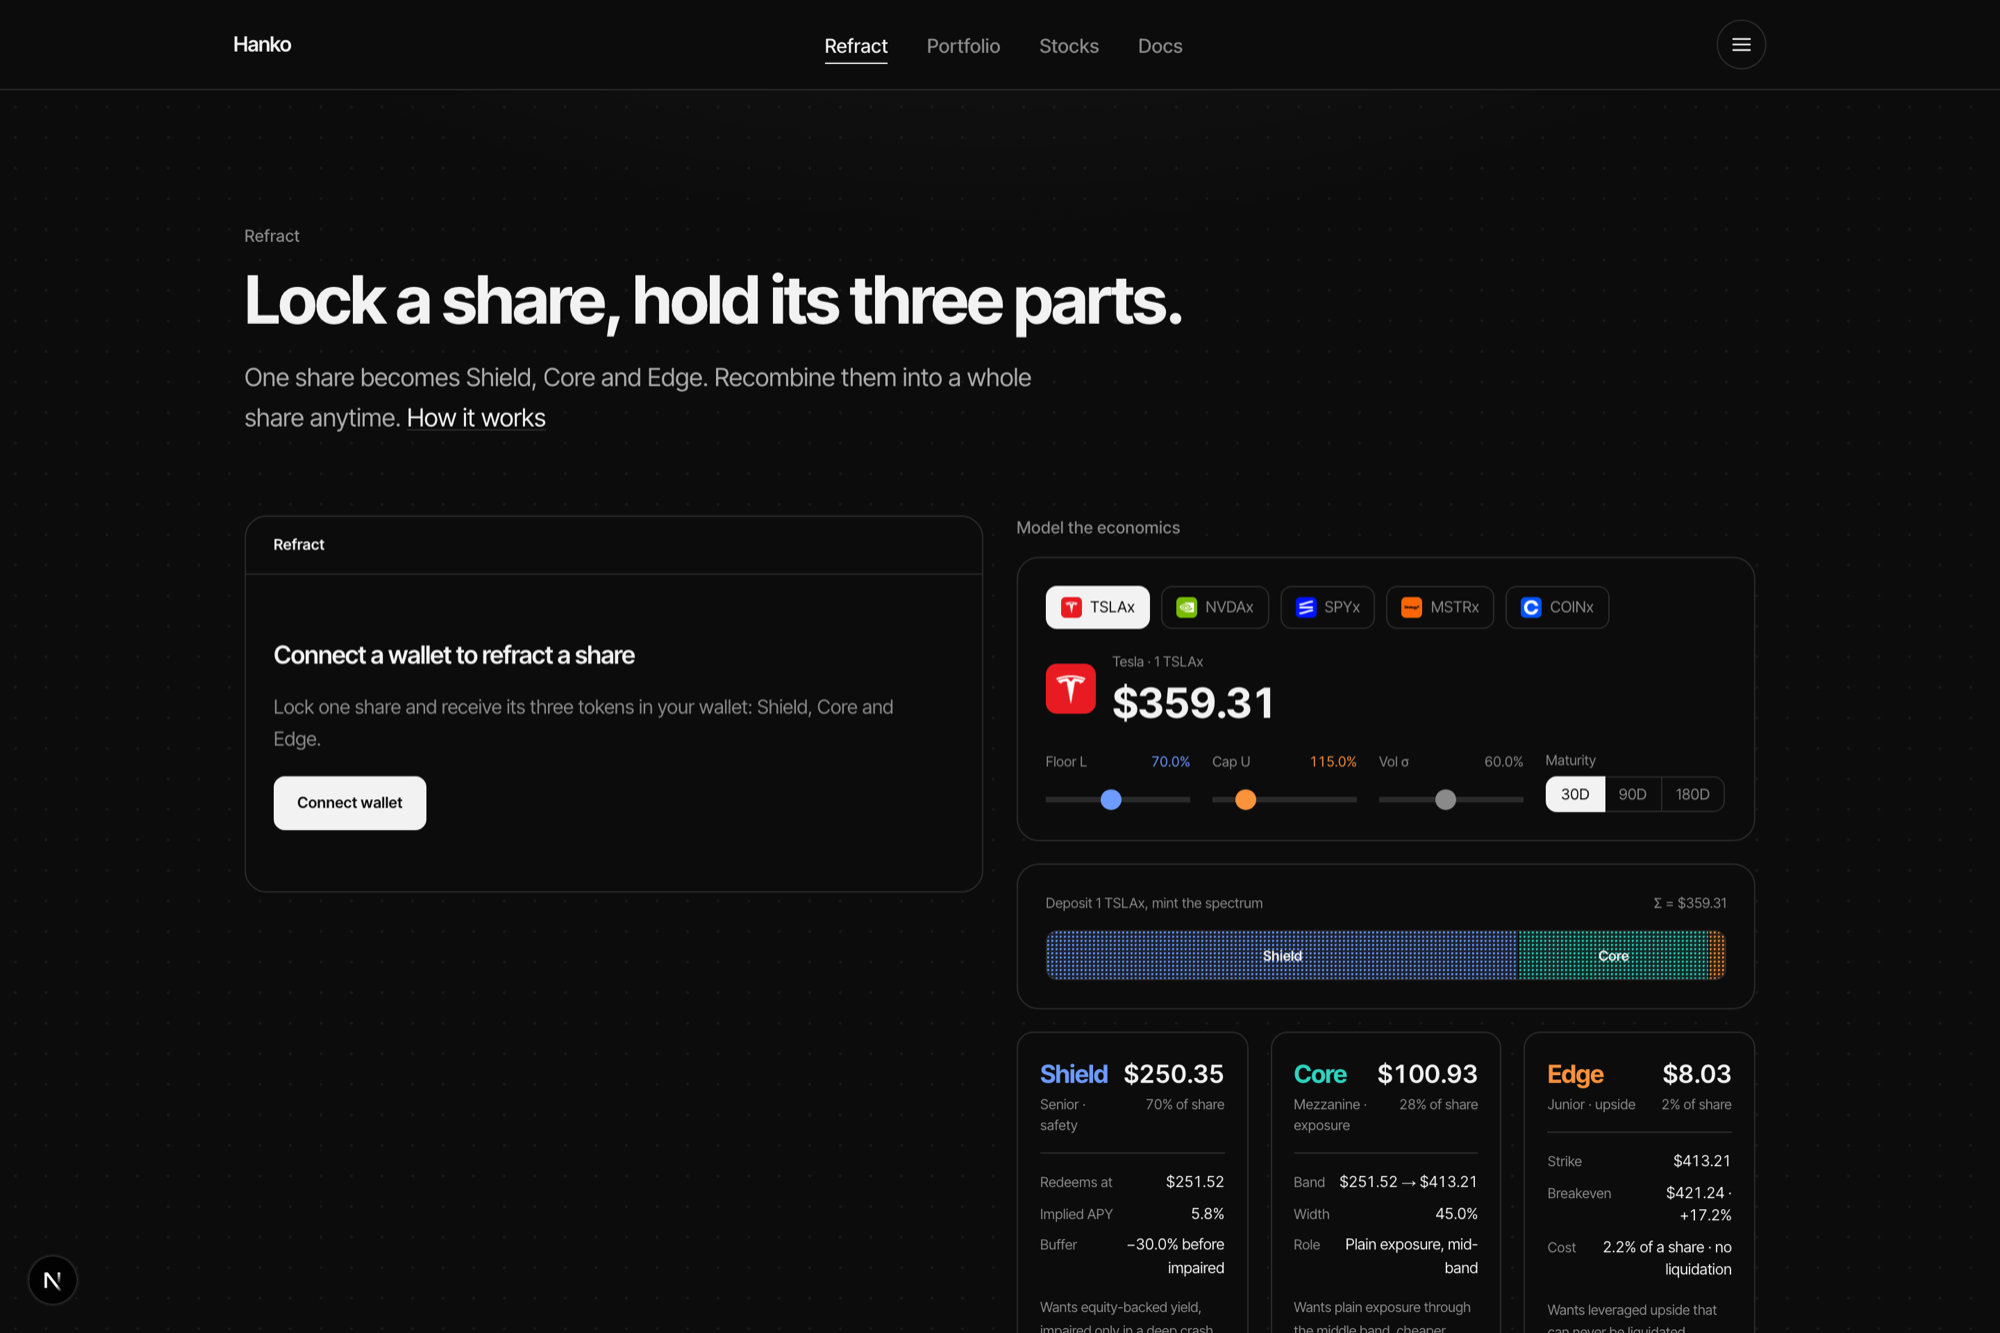
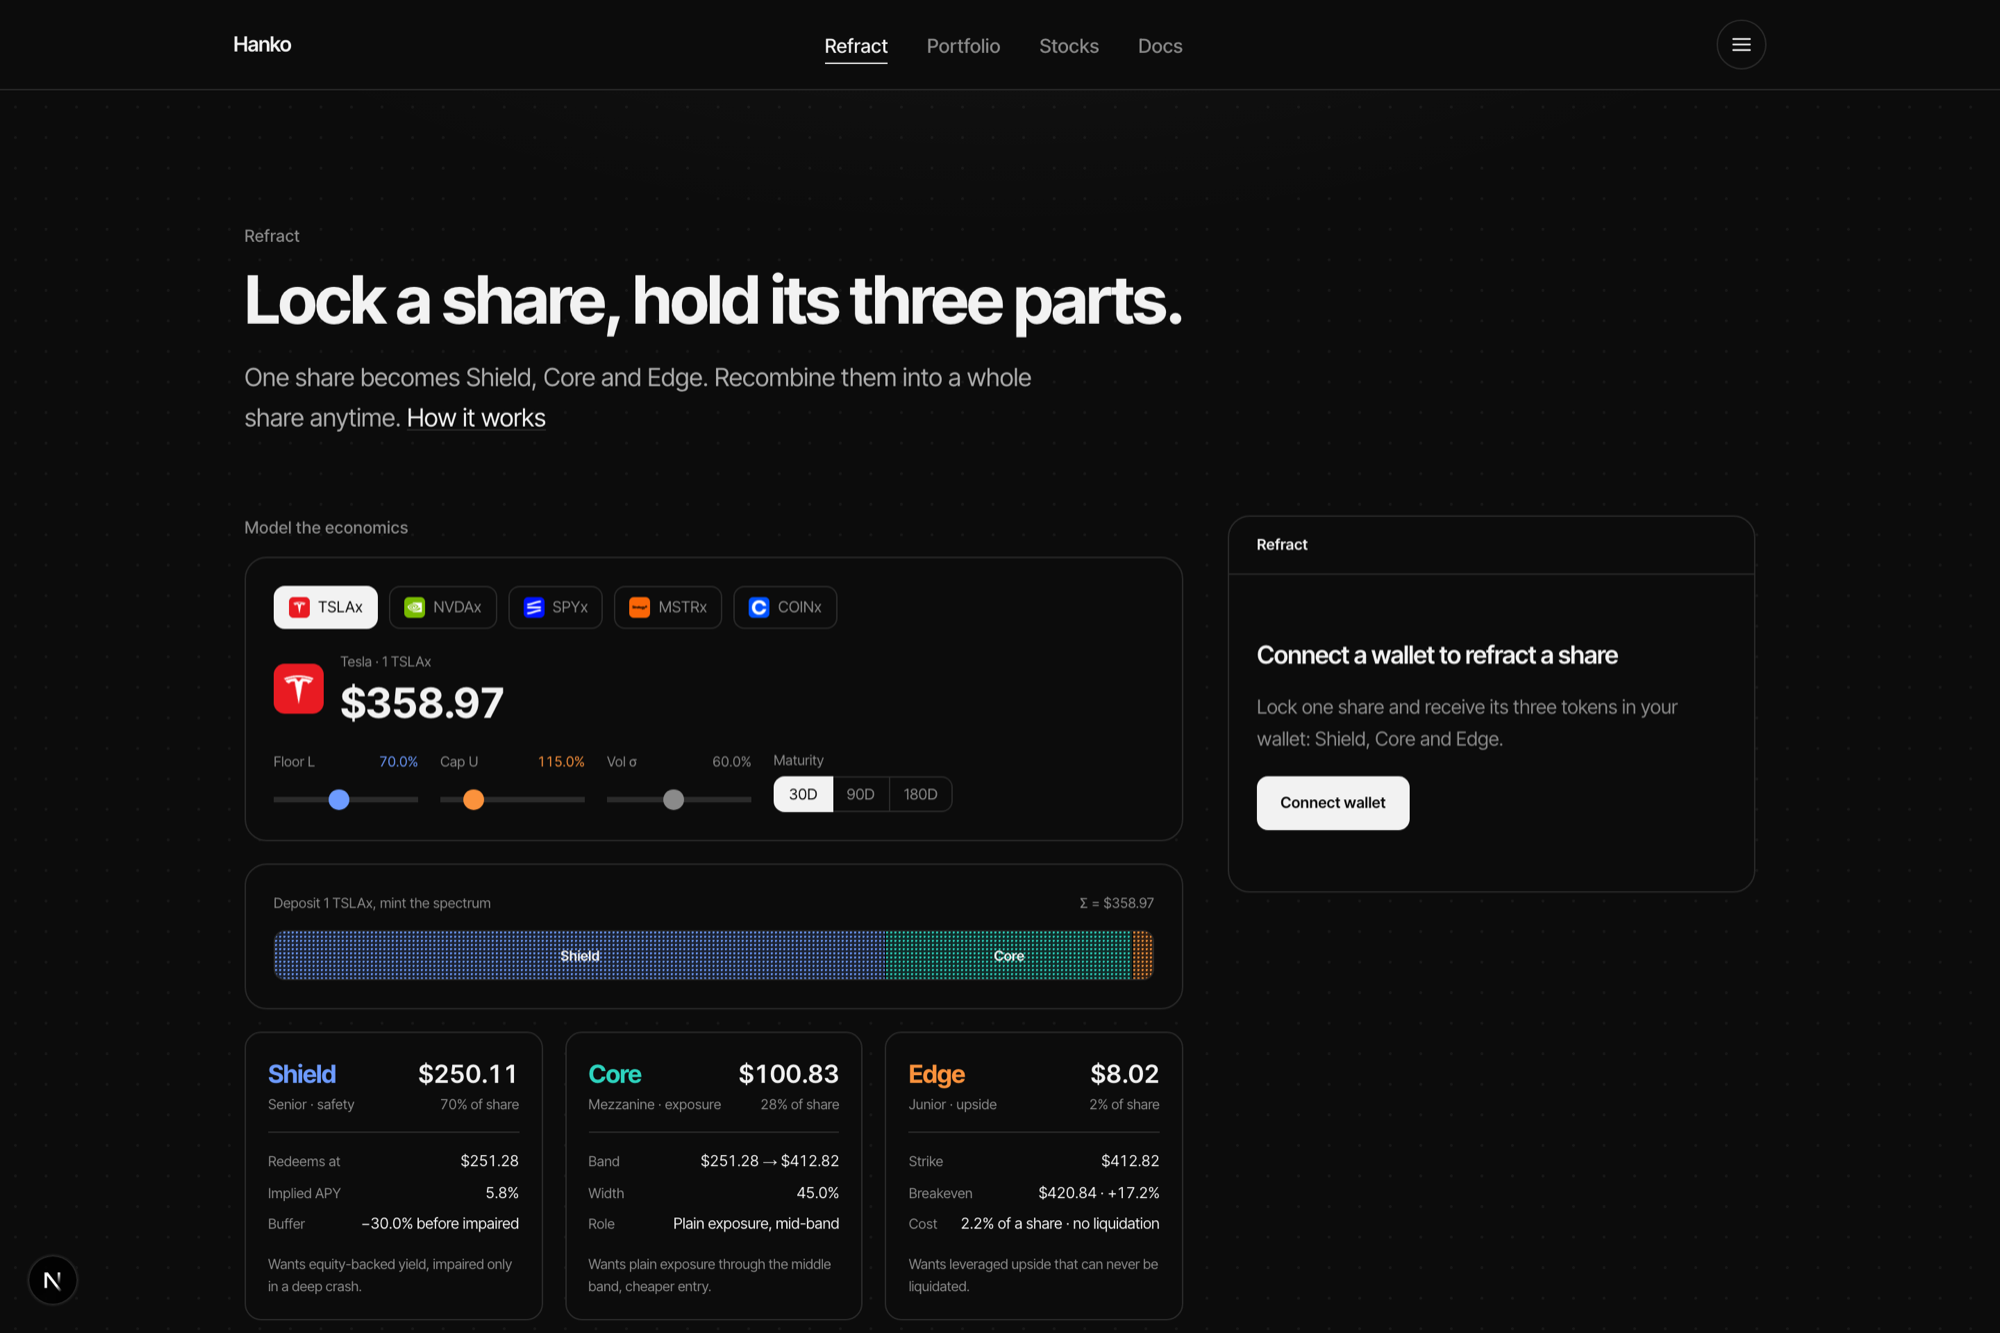
Refract: give the economics/charts the wide column
Flip the two-column split so the explorer takes the full width and the
mint/trade console hangs in a narrow, sticky right rail.

diff --git a/src/app/refract/page.tsx b/src/app/refract/page.tsx
@@ -29,13 +29,17 @@ export default function RefractPage() {
         </p>
       </header>
 
-      <div className="mt-14 grid gap-6 xl:grid-cols-2 xl:items-start">
-        <RefractConsole />
-        <div>
+      <div className="mt-14 grid gap-8 xl:grid-cols-[minmax(0,1fr)_380px] xl:items-start">
+        {/* wide side — the economics + charts get the room */}
+        <div className="min-w-0 xl:order-1">
           <p className="mb-3 text-[12px] font-medium tracking-[0.02em] text-mute">
             Model the economics
           </p>
           <SpectrumExplorer />
+        </div>
+        {/* the mint / trade console hangs around in a narrow rail */}
+        <div className="xl:order-2 xl:sticky xl:top-24 xl:self-start">
+          <RefractConsole />
         </div>
       </div>
     </div>
